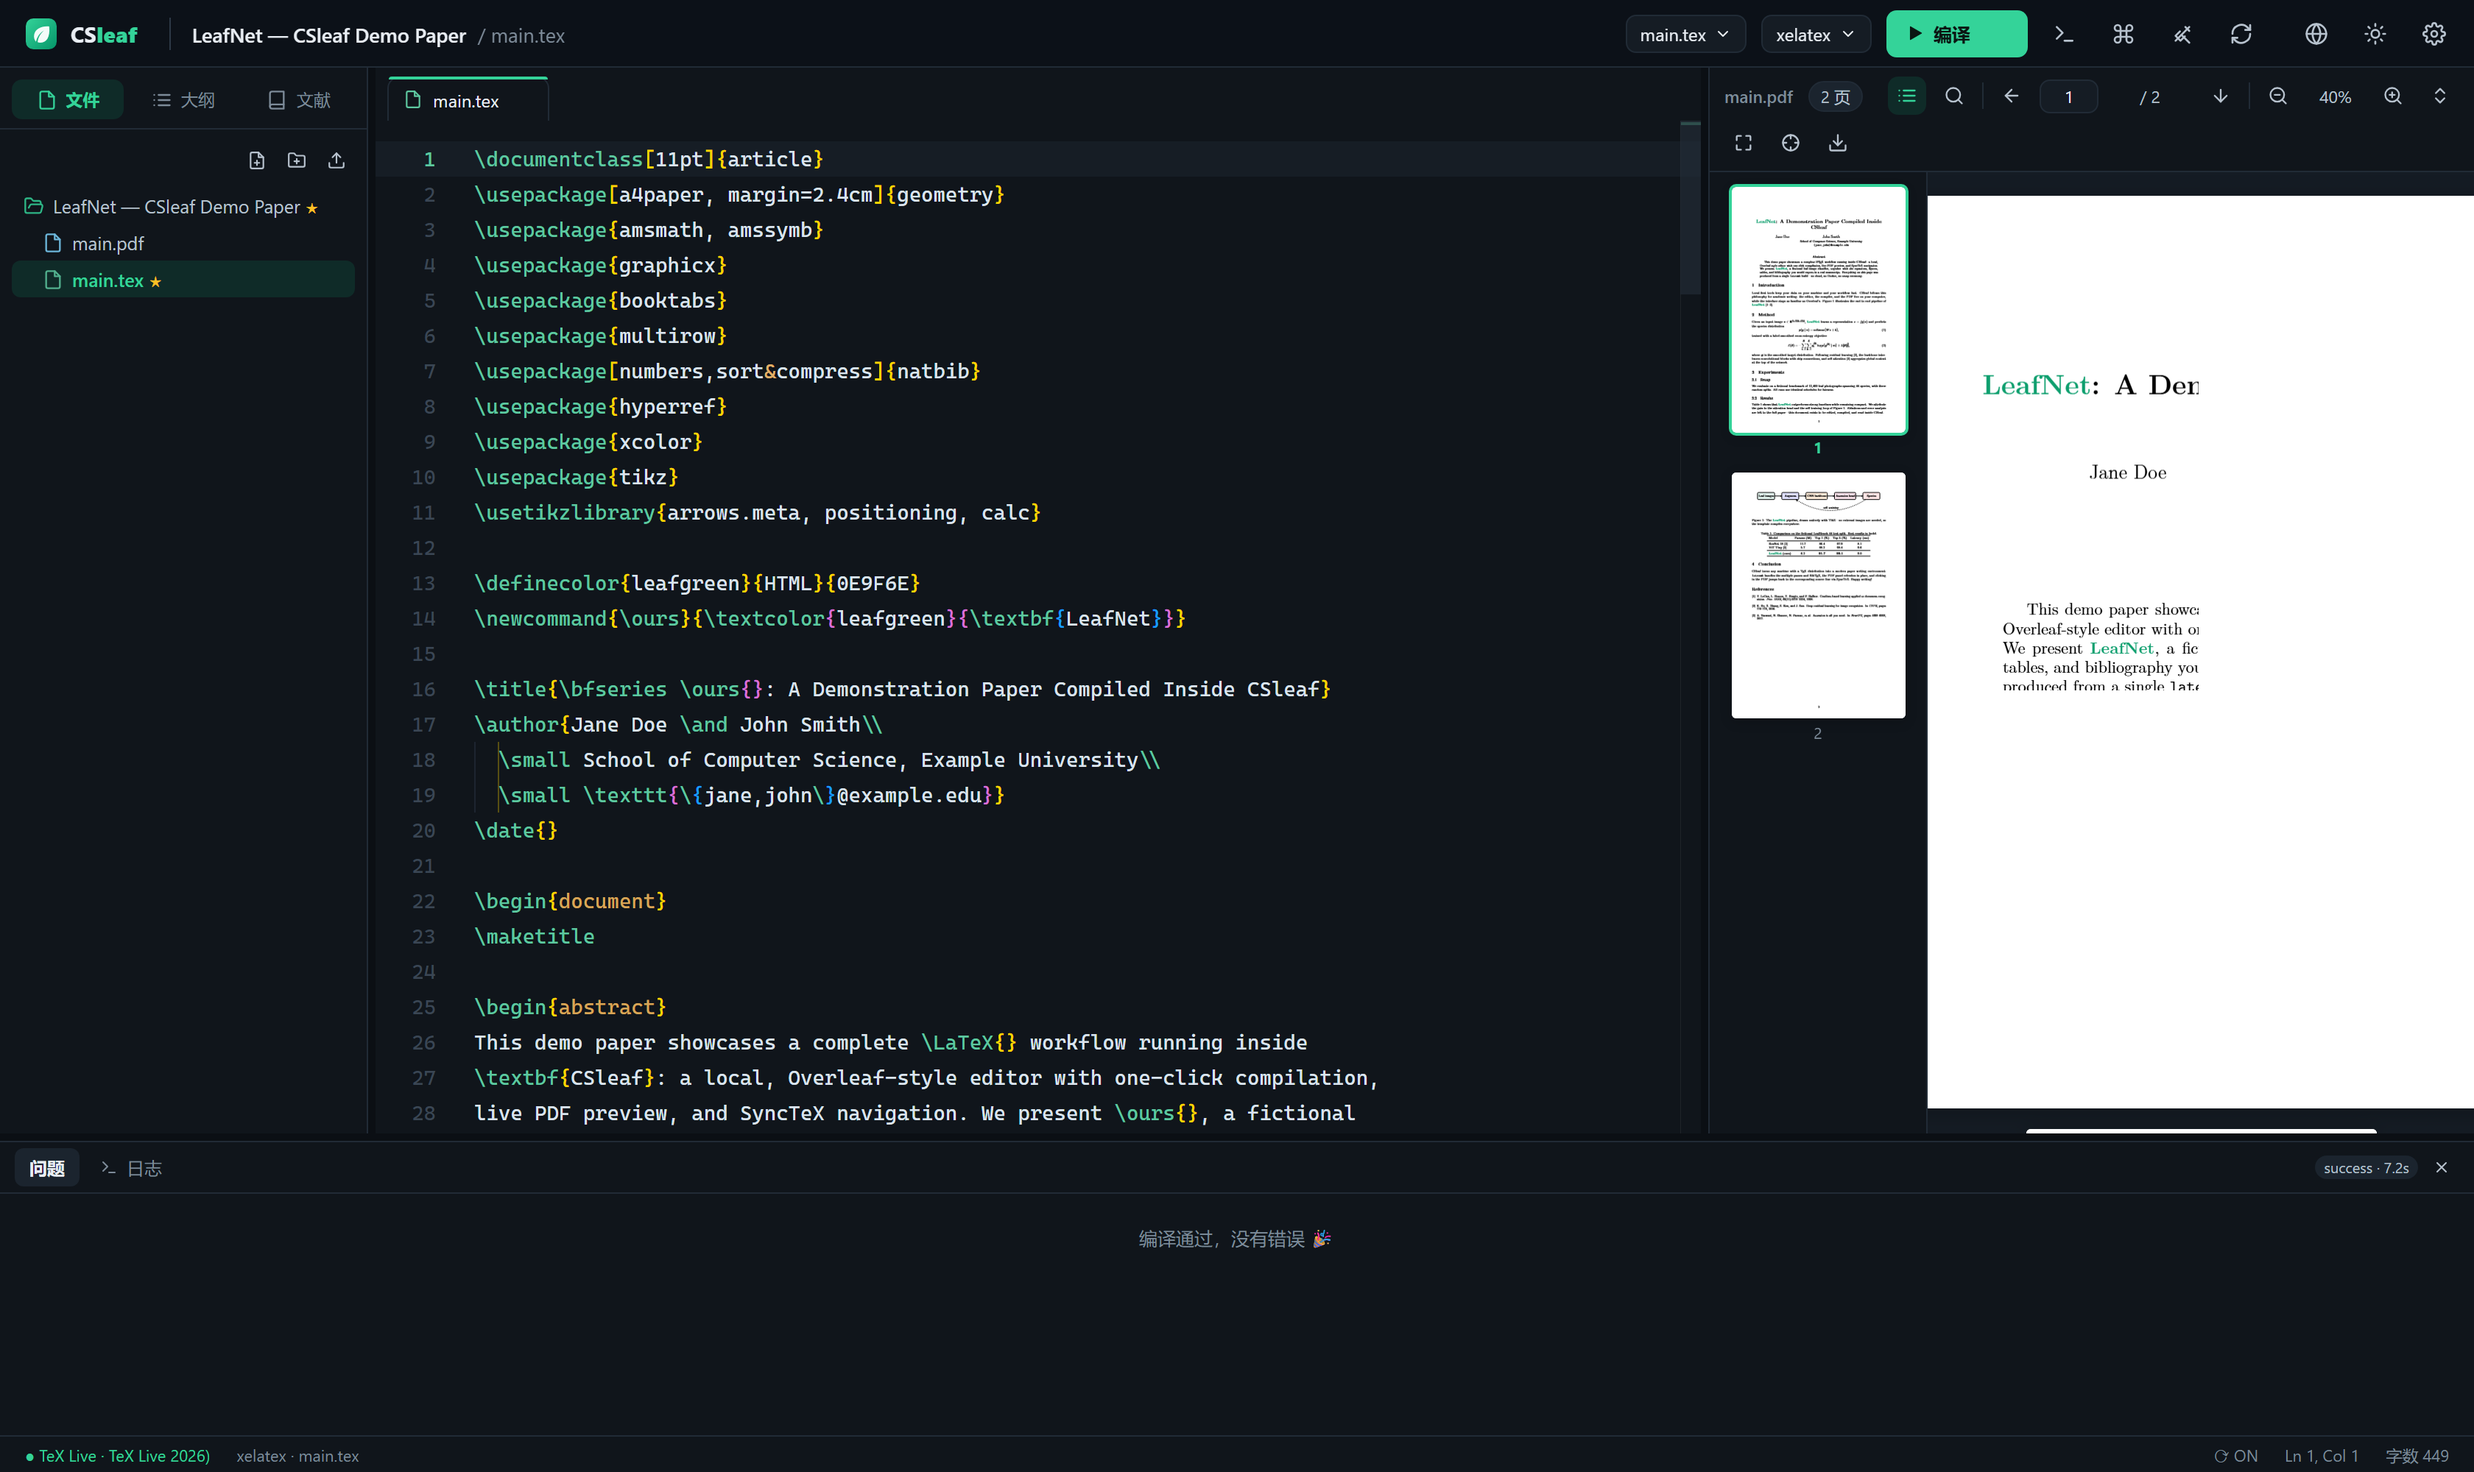
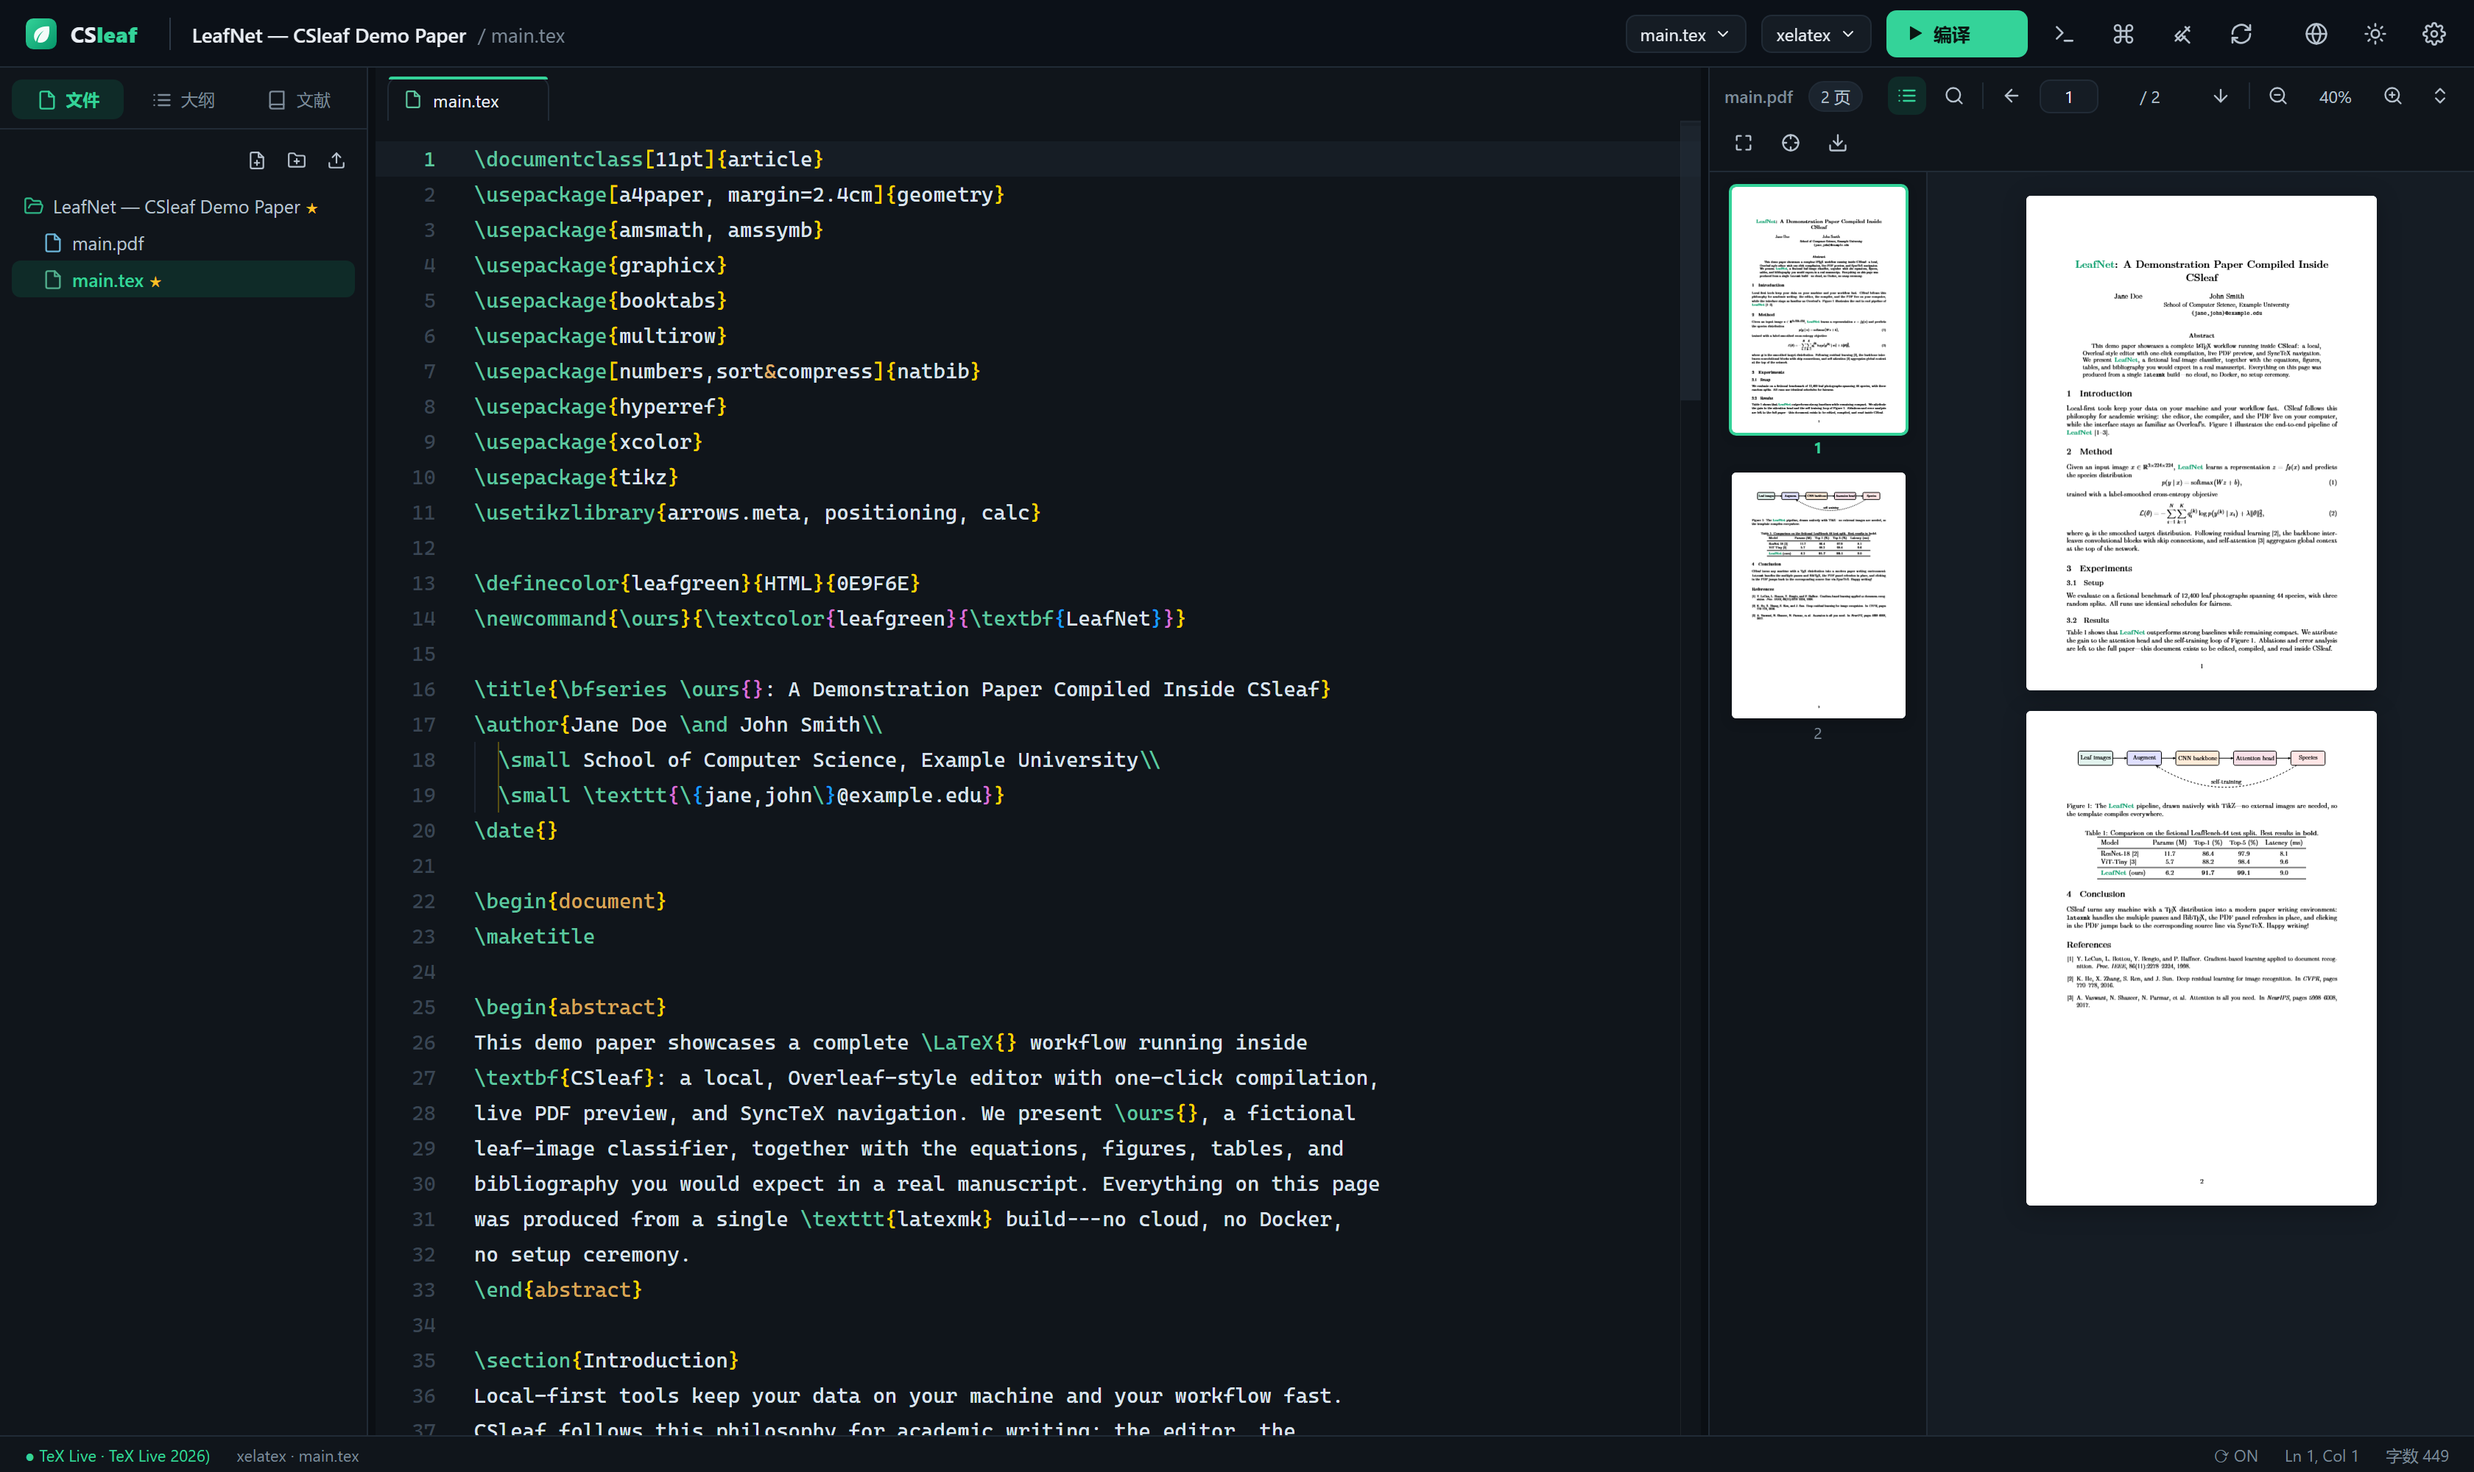
fix: initial PDF render race (stale-scale canvas), add ZIP template import
- pages no longer render before auto fit-width settles (scale starts null);
  page renders are serialized per page so two pdf.js tasks can never fight
  over the same canvas — fixes clipped content on first load that only
  recovered after zooming
- import custom templates from .zip archives: templates tab gets an
  'Import template' button; auto-detects main .tex (documentclass) and
  engine (ctex family -> xelatex), flattens wrapper folders, shows the
  imported template with detail dialog and compiled preview like built-ins

Changed region(s): [[0.7812, 0.124, 1.0, 0.837], [0.1875, 0.775, 0.5625, 0.992], [0.0, 0.775, 0.0312, 0.806]]

diff --git a/web/src/components/PdfViewer.jsx b/web/src/components/PdfViewer.jsx
@@ -24,7 +24,7 @@ export default function PdfViewer() {
 
   const [pdfDoc, setPdfDoc] = useState(null);
   const [numPages, setNumPages] = useState(0);
-  const [scale, setScale] = useState(1.1);
+  const [scale, setScale] = useState(null); // null = not yet fitted; pages must not render
   const [page, setPage] = useState(1);
   const [error, setError] = useState(null);
   const [thumbsOpen, setThumbsOpen] = useState(true);
@@ -58,14 +58,17 @@ export default function PdfViewer() {
     return () => { cancelled = true; };
   }, [url]);
 
-  // auto fit width on load
+  // auto fit width on load (before any page renders — scale stays null until here)
   useEffect(() => {
     if (!pdfDoc || !scrollRef.current) return;
+    let cancelled = false;
     pdfDoc.getPage(1).then(p => {
+      if (cancelled) return;
       const viewport = p.getViewport({ scale: 1 });
       const avail = (scrollRef.current.clientWidth || 700) - (thumbsOpen ? 190 : 60);
       setScale(Math.min(Math.max(avail / viewport.width, 0.4), 2.5));
     });
+    return () => { cancelled = true; };
   }, [pdfDoc, thumbsOpen]);
 
   // track current page while scrolling
@@ -110,13 +113,13 @@ export default function PdfViewer() {
           pdf: st.pdfFile, file: st.activePath, line: pos.lineNumber, col: pos.column,
         });
         if (r.available && r.match) {
-          const top = r.top * scale;
+          const top = r.top * (scale || 1);
           setSyncMarker({
             page: r.page,
             top,
-            height: Math.max((r.height || 8) * scale, 6),
-            left: Math.max((r.left || 0) * scale - 3, 0),
-            width: Math.max((r.width || 0) * scale, 90),
+            height: Math.max((r.height || 8) * (scale || 1), 6),
+            left: Math.max((r.left || 0) * (scale || 1) - 3, 0),
+            width: Math.max((r.width || 0) * (scale || 1), 90),
           });
           // scroll so the target line sits in the middle of the viewport
           const el = pageRefs.current[r.page];
@@ -228,9 +231,9 @@ export default function PdfViewer() {
         <span className="page-ind">/ {numPages}</span>
         <button className="icon-btn" style={{ width: 26, height: 26 }} onClick={() => goToPage(page + 1)} disabled={page >= numPages}><ArrowRightIcon width={13} height={13} /></button>
         <div style={{ width: 1, height: 18, background: 'var(--border)' }} />
-        <button className="icon-btn" style={{ width: 26, height: 26 }} onClick={() => setScale(s => Math.max(s - 0.15, 0.3))}><ZoomOutIcon width={13} height={13} /></button>
-        <span className="page-ind" style={{ minWidth: 40 }}>{Math.round(scale * 100)}%</span>
-        <button className="icon-btn" style={{ width: 26, height: 26 }} onClick={() => setScale(s => Math.min(s + 0.15, 4))}><ZoomInIcon width={13} height={13} /></button>
+        <button className="icon-btn" style={{ width: 26, height: 26 }} onClick={() => setScale(s => Math.max((s || 1) - 0.15, 0.3))}><ZoomOutIcon width={13} height={13} /></button>
+        <span className="page-ind" style={{ minWidth: 40 }}>{scale ? Math.round(scale * 100) + '%' : '…'}</span>
+        <button className="icon-btn" style={{ width: 26, height: 26 }} onClick={() => setScale(s => Math.min((s || 1) + 0.15, 4))}><ZoomInIcon width={13} height={13} /></button>
         <button className="icon-btn" style={{ width: 26, height: 26 }} title={t('fitWidth')}
           onClick={() => {
             if (!pdfDoc || !scrollRef.current) return;
@@ -407,9 +410,18 @@ class PdfPage extends React.Component {
 
   componentWillUnmount() { this.state.obs?.disconnect(); this.renderToken++; }
 
-  async renderPage() {
+  /** Serialize renders: never two pdf.js tasks on the same canvas at once. */
+  renderPage() {
+    const token = ++this.renderToken;
+    this._queue = Promise.resolve(this._queue)
+      .catch(() => {})
+      .then(() => (token === this.renderToken ? this.doRender(token) : null));
+    return this._queue;
+  }
+
+  async doRender(token) {
     const { doc, pageNo, scale } = this.props;
-    const token = ++this.renderToken; // invalidate any in-flight render
+    if (scale == null) return; // wait until fit-width has settled
     try {
       const page = await doc.getPage(pageNo);
       if (token !== this.renderToken) return;

diff --git a/server/services/templates.js b/server/services/templates.js
@@ -6,6 +6,7 @@
 const fs = require('fs');
 const path = require('path');
 const crypto = require('crypto');
+const AdmZip = require('adm-zip');
 const { TEMPLATES_DIR, WORKSPACE_DIR, BUILD_ARTIFACTS } = require('../config');
 const tex = require('./tex');
 
@@ -198,7 +199,86 @@ function deleteCustomTemplate(id) {
   return true;
 }
 
+/** Detect a sensible engine from template source (ctex family → xelatex). */
+function detectCompiler(dir, mainFile) {
+  try {
+    const src = fs.readFileSync(path.join(dir, mainFile), 'utf8');
+    if (/ctex|xeCJK|CJKutf8|\\fontspec/.test(src)) return 'xelatex';
+  } catch {}
+  return 'latexmk';
+}
+
+function findMainFile(dir) {
+  const candidates = [];
+  const walk = (abs, rel) => {
+    for (const e of fs.readdirSync(abs, { withFileTypes: true })) {
+      if (e.name.startsWith('.') || isArtifact(e.name)) continue;
+      const r = rel ? `${rel}/${e.name}` : e.name;
+      if (e.isDirectory()) walk(path.join(abs, e.name), r);
+      else if (/\.tex$/i.test(e.name)) candidates.push(r);
+    }
+  };
+  try { walk(dir, ''); } catch {}
+  for (const c of candidates) {
+    try {
+      if (fs.readFileSync(path.join(dir, c), 'utf8').includes('\\documentclass')) return c;
+    } catch {}
+  }
+  return candidates[0] || null;
+}
+
+/** Import a .zip archive as a user template. */
+function importTemplateFromZip(zipBuffer, name) {
+  const zip = new AdmZip(zipBuffer);
+  const id = crypto.randomBytes(5).toString('hex');
+  const dir = path.join(CUSTOM_DIR, id);
+  fs.mkdirSync(dir, { recursive: true });
+
+  const entries = zip.getEntries().map(e => ({ ...e, norm: e.entryName.replace(/\\/g, '/') }));
+  // detect a single top-level wrapper folder (GitHub-style archives) and flatten it
+  const tops = new Set();
+  for (const e of entries) {
+    const parts = e.norm.split('/').filter(Boolean);
+    if (parts.length > 1) tops.add(parts[0]);
+  }
+  const wrapper = tops.size === 1 ? [...tops][0] : null;
+
+  let count = 0;
+  for (const e of entries) {
+    if (e.isDirectory) continue;
+    const parts = e.norm.split('/').filter(Boolean);
+    if (!parts.length) continue;
+    if (parts.some(p => p === '__MACOSX' || (p.startsWith('.') && p.length > 1))) continue;
+    let rel = parts.join('/');
+    if (wrapper && parts[0] === wrapper) rel = parts.slice(1).join('/');
+    if (!rel) continue;
+    const dest = path.join(dir, rel);
+    if (!dest.startsWith(dir)) continue;
+    fs.mkdirSync(path.dirname(dest), { recursive: true });
+    fs.writeFileSync(dest, e.getData());
+    count++;
+  }
+  if (count === 0) {
+    fs.rmSync(dir, { recursive: true, force: true });
+    throw new Error('ZIP archive contains no usable files');
+  }
+
+  const mainFile = findMainFile(dir) || 'main.tex';
+  const meta = {
+    id,
+    name: (name || `Imported template ${new Date().toISOString().slice(0, 10)}`).slice(0, 60),
+    desc: 'Imported from ZIP',
+    compiler: detectCompiler(dir, mainFile),
+    mainFile,
+    createdAt: Date.now(),
+    custom: true,
+  };
+  fs.writeFileSync(path.join(dir, '.csleaf-template.json'), JSON.stringify(meta, null, 2), 'utf8');
+  return meta;
+}
+
 module.exports = {
   listTemplates, findTemplate, templateDir, listFiles, readFile,
   previewPdf, saveCustomTemplate, deleteCustomTemplate, copyTemplateDir,
+  importTemplateFromZip,
 };

diff --git a/web/src/components/HomePage.jsx b/web/src/components/HomePage.jsx
@@ -65,6 +65,7 @@ export default function HomePage() {
   const importZip = useStore(s => s.importZip);
   const toast = useStore(s => s.toast);
   const fileRef = useRef(null);
+  const tplFileRef = useRef(null);
   const [tab, setTab] = useState('projects');
   const [detailId, setDetailId] = useState(null);
 
@@ -101,6 +102,19 @@ export default function HomePage() {
       toast(`${lang === 'zh' ? '已导入' : 'Imported'}: ${p.name}`, 'success');
     } catch (err) {
       toast(`${lang === 'zh' ? '导入失败' : 'Import failed'}: ${err.message}`, 'error');
+    }
+  }
+
+  async function handleTemplateImport(e) {
+    const file = e.target.files?.[0];
+    e.target.value = '';
+    if (!file) return;
+    try {
+      const tpl = await api.importTemplate(file, file.name.replace(/\.zip$/i, ''));
+      await loadProjects();
+      toast(lang === 'zh' ? `模板已导入：${tpl.name}（编译器 ${tpl.compiler}）` : `Template imported: ${tpl.name} (${tpl.compiler})`, 'success', 4000);
+    } catch (err) {
+      toast(`${lang === 'zh' ? '模板导入失败' : 'Template import failed'}: ${err.message}`, 'error', 4200);
     }
   }
 
@@ -173,6 +187,17 @@ export default function HomePage() {
               <button className="btn primary" onClick={() => openModal('newproject')}>
                 <PlusIcon width={14} height={14} /> {t('newProject')}
               </button>
+            </>
+          )}
+          {tab === 'templates' && (
+            <>
+              <button className="btn" onClick={() => tplFileRef.current?.click()}>
+                <UploadIcon width={14} height={14} /> {t('importTemplate')}
+              </button>
+              <input ref={tplFileRef} type="file" accept=".zip" hidden onChange={handleTemplateImport} />
+              <span className="settings-hint" style={{ padding: '7px 12px' }}>
+                {lang === 'zh' ? '导入 .zip 模板包（如 GitHub 上的模板仓库），或把项目「存为我的模板」' : 'Import a .zip template pack, or save any project as a template'}
+              </span>
             </>
           )}
         </div>

diff --git a/web/src/lib/api.js b/web/src/lib/api.js
@@ -32,6 +32,12 @@ export const api = {
   templatePreviewUrl: (id) => `/api/templates/${id}/preview.pdf`,
   saveCustomTemplate: (projectId, body) => request('/templates/custom', { method: 'POST', body: { projectId, ...body } }),
   deleteCustomTemplate: (id) => request(`/templates/custom/${id}`, { method: 'DELETE' }),
+  importTemplate: (file, name) => {
+    const fd = new FormData();
+    fd.append('file', file);
+    if (name) fd.append('name', name);
+    return request('/templates/import', { method: 'POST', body: fd });
+  },
 
   // projects
   projects: () => request('/projects'),

diff --git a/server/routes/api.js b/server/routes/api.js
@@ -67,6 +67,13 @@ router.delete('/templates/custom/:id', (req, res) => {
   } catch (e) { res.status(400).json({ error: e.message }); }
 });
 
+router.post('/templates/import', upload.single('file'), (req, res) => {
+  try {
+    if (!req.file) return res.status(400).json({ error: 'No file uploaded' });
+    res.json(templatesSvc.importTemplateFromZip(req.file.buffer, req.body?.name));
+  } catch (e) { res.status(400).json({ error: e.message }); }
+});
+
 // ---------- projects ----------
 router.get('/projects', (req, res) => res.json(projects.listProjects()));
 

diff --git a/web/src/lib/i18n.js b/web/src/lib/i18n.js
@@ -6,6 +6,7 @@ const dict = {
   myProjects: { zh: '我的项目', en: 'My Projects' },
   newProject: { zh: '新建项目', en: 'New Project' },
   importZip: { zh: '导入 ZIP', en: 'Import ZIP' },
+  importTemplate: { zh: '导入模板', en: 'Import template' },
   emptyProjects: { zh: '还没有项目，从模板创建一个吧', en: 'No projects yet — create one from a template' },
   open: { zh: '打开', en: 'Open' },
   duplicate: { zh: '复制', en: 'Duplicate' },
